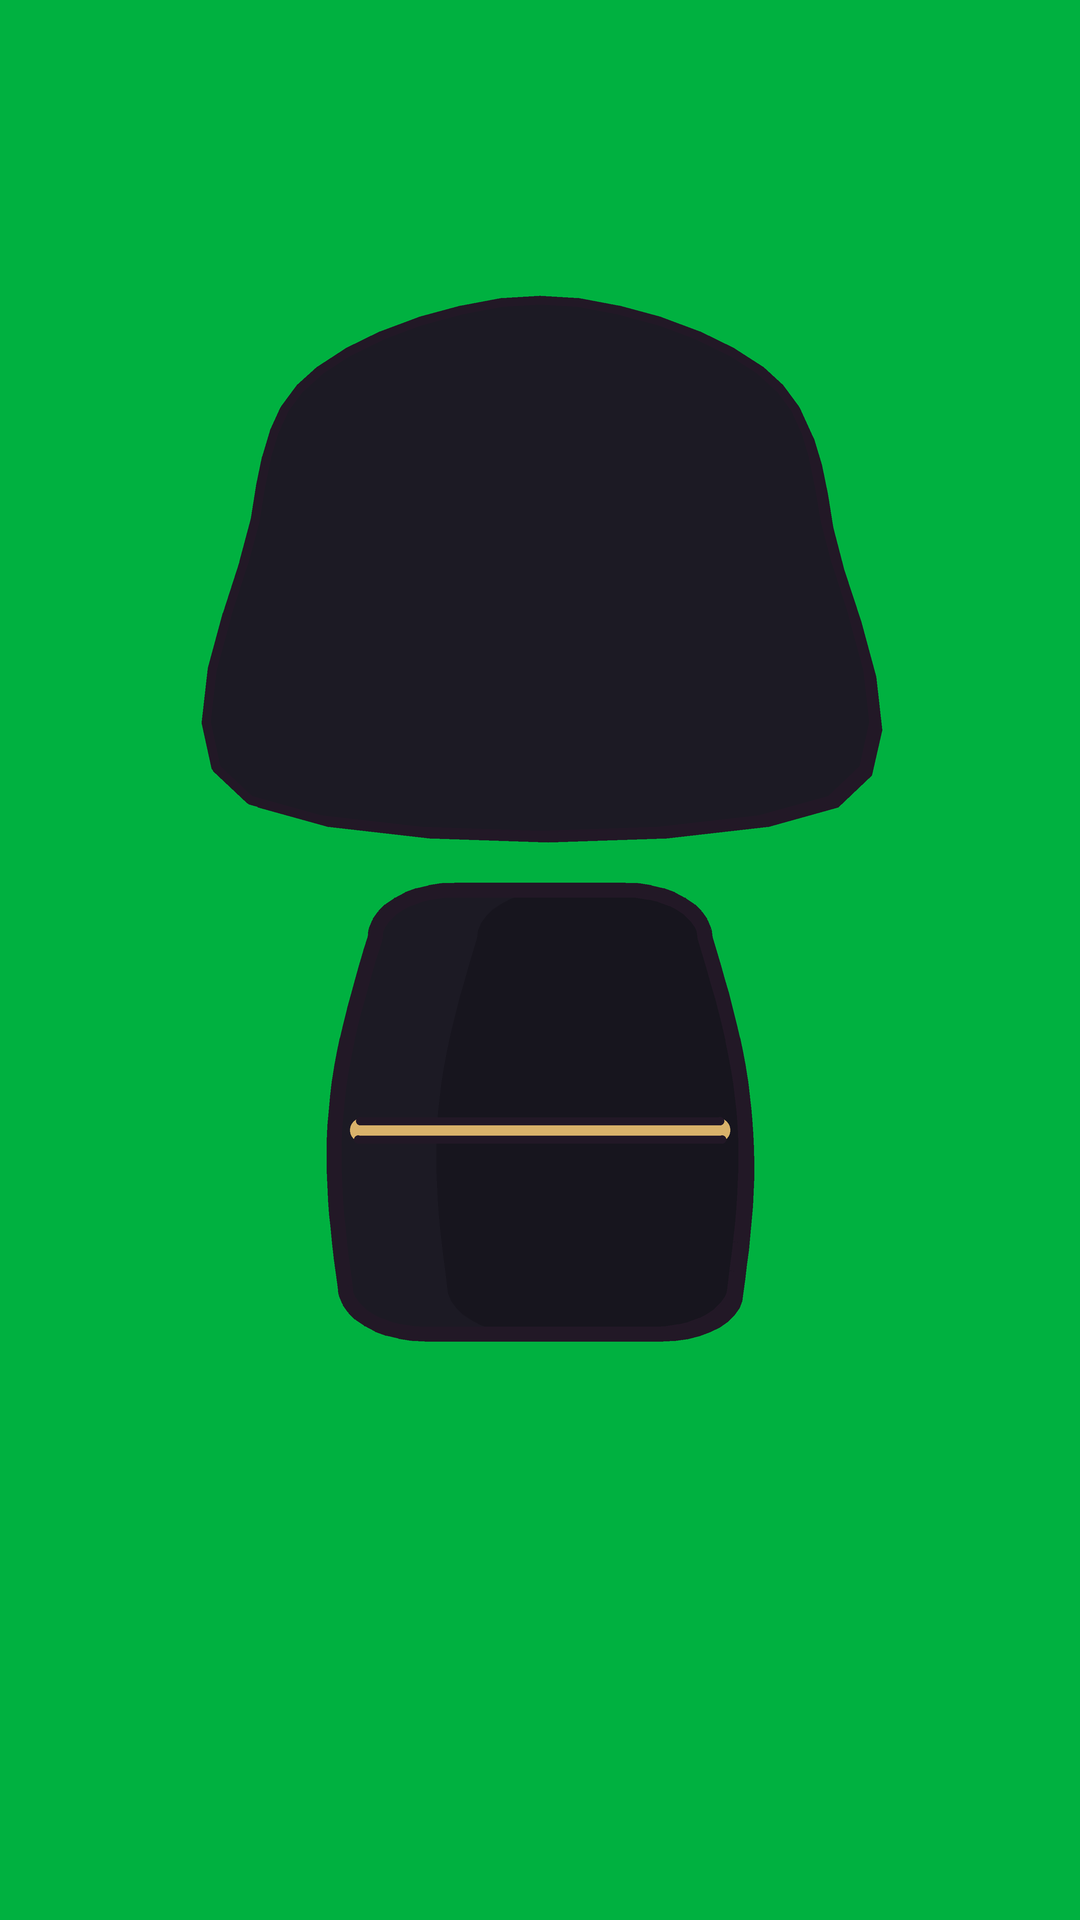
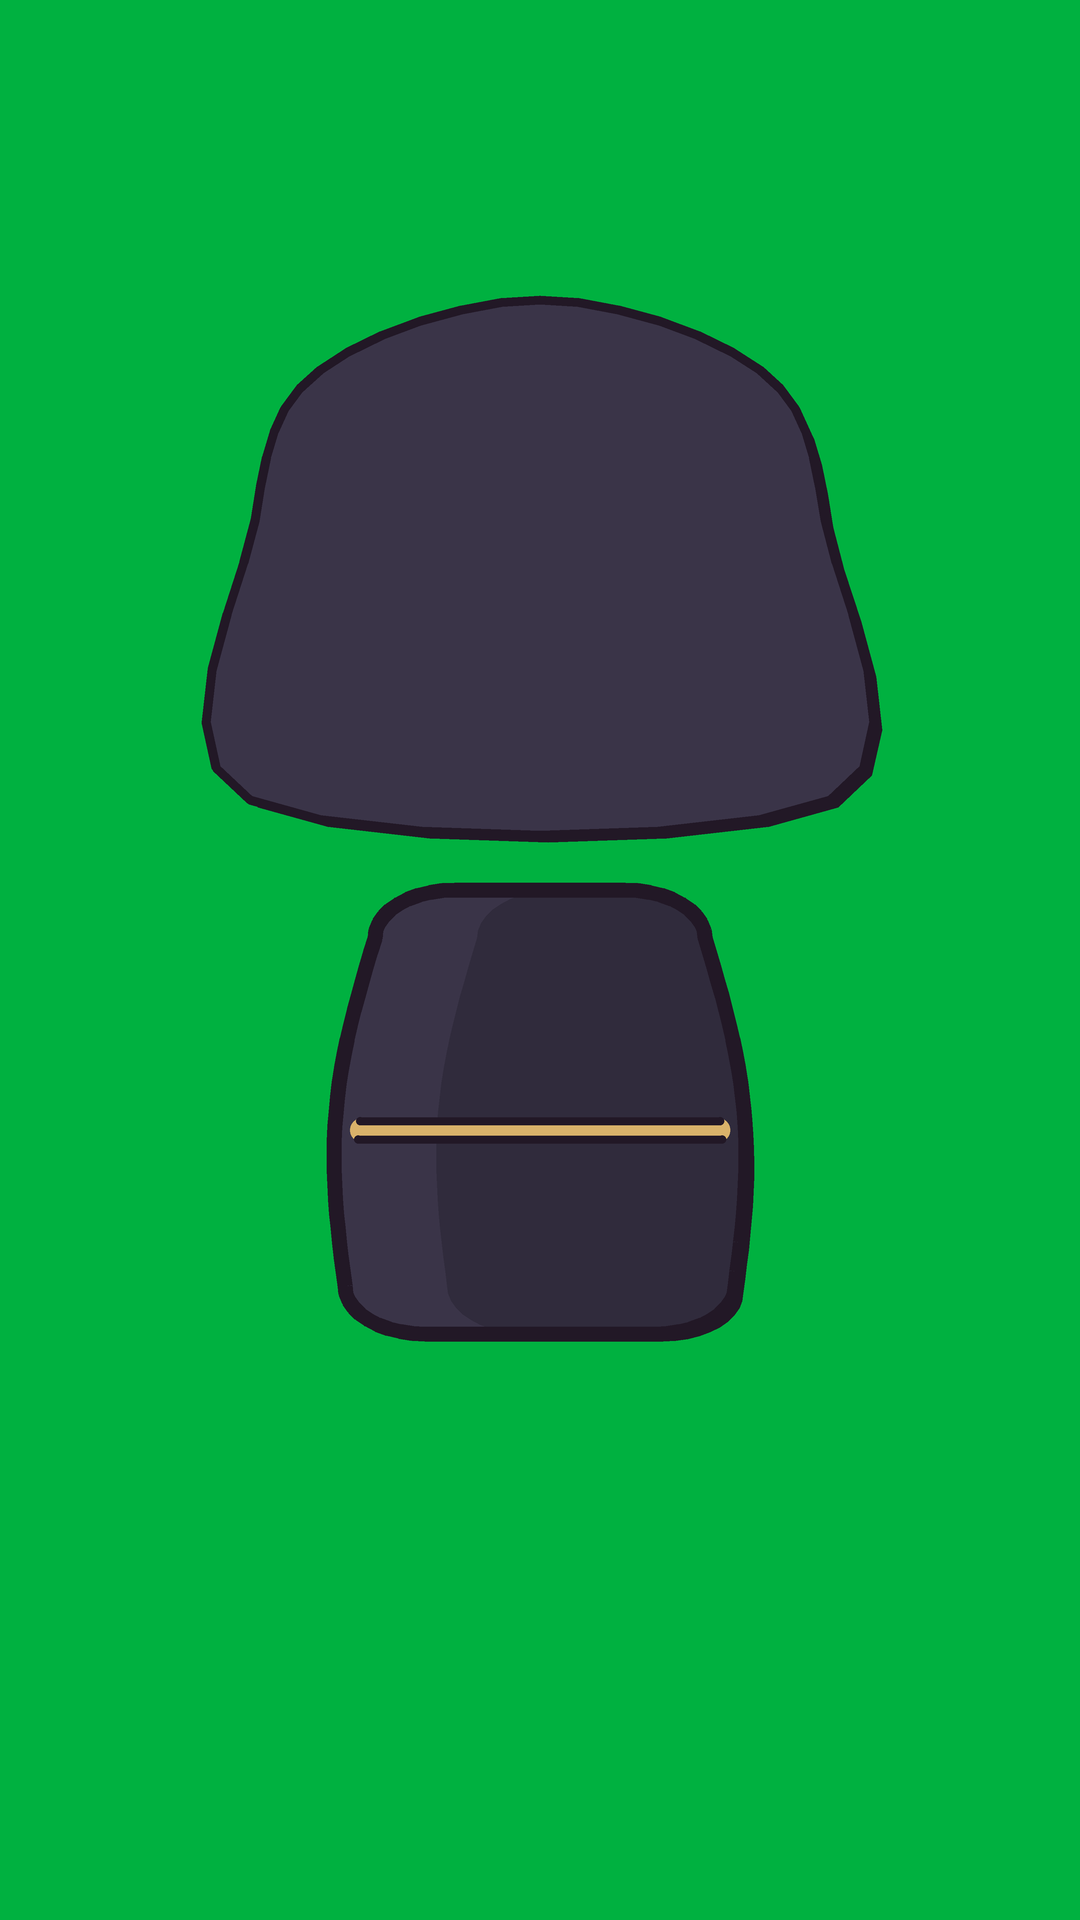
Characters read at night: lighter night costumes, sprite self-light, stronger rims, lighter hood art
Claude-Session: https://claude.ai/code/session_01GMCyhhBf96PfZGofzkVNHY

Changed region(s): [[0.1833, 0.1562, 0.825, 0.4375], [0.3056, 0.4688, 0.7028, 0.7188]]

diff --git a/projects/the-puppet-master/src/shots.js b/projects/the-puppet-master/src/shots.js
@@ -51,19 +51,19 @@ const neonPt = (i, p, col, I = 6, d = 12) => { const l = Wd.pts[i]; l.position.c
 /* character light rigs per set, motivated by the visible sources (neon magenta sign left, cyan sign right; the alley's
    warm lamp left + cool city light right; truck: cold window top light; gate: red ZERO CITY sign from above + white searchlight rim) */
 const RIGS = {
-  street: { dir: [-.7, .45, .5], cel: .7,  base: .82, key: ['#ff4a9a', .32], keySide: -1, fill: ['#2fd0ff', .26], top: ['#c8b8ff', .12], rim: ['#5fe8ff', 0.42], rimDir: [1, .35], rim2: ['#ff4a8a', 0.19], shadow: .3, rimW: .007 },
-  alley: { dir: [-.6, .7, .4], cel: .8,  base: .74, key: ['#ffb060', .4], keySide: -1, fill: ['#5a6aff', .2], top: ['#ffd8a0', .1], rim: ['#ff3a5a', 0.35], rimDir: [1, .2], rim2: ['#ffb060', 0.16], shadow: .45, rimW: .007 },
-  truck: { dir: [.1, .9, .35], cel: .7,  base: .78, key: ['#a8c4ff', .25], keySide: 1, fill: ['#ffcf8a', .18], top: ['#c8d8ff', .3], rim: ['#c8d8ff', 0.3], rimDir: [0, 1], shadow: .3, rimW: .007 },
-  gate: { dir: [0, .9, .4], cel: .7,  base: .8, key: ['#ff3040', .38], keySide: -1, fill: ['#8aa0ff', .16], top: ['#ff6070', .25], rim: ['#fff0d8', 0.4], rimDir: [1, .5], shadow: .35, rimW: .007 },
-  silhouette: { dir: [0, .2, -1], cel: 1, shadeCol: '#3a3448',  base: .28, key: ['#000000', 0], fill: ['#000000', 0], top: ['#ffd8a0', .08], rim: ['#ffc87a', .9], rimDir: [1, .4], rim2: ['#ffc87a', .7], shadow: .8, rimW: .008 },   /* a figure in front of a bright source: dark body, bright edges */
-  power: { dir: [0, -.8, .5], cel: .9, shadeCol: '#6a2a3a',  base: .62, key: ['#ff2030', .3], keySide: -1, fill: ['#000000', 0], top: ['#ffffff', .05], rim: ['#ff2a3a', 0.55], rimDir: [1, .2], rim2: ['#ff2a3a', 0.28], shadow: .6, rimW: .009 } };
+  street: { dir: [-.7, .45, .5], cel: .55,  base: 1.02, key: ['#ff4a9a', .32], keySide: -1, fill: ['#2fd0ff', .26], top: ['#c8b8ff', .12], rim: ['#5fe8ff', 0.6], rimDir: [1, .35], rim2: ['#ff4a8a', 0.3], shadow: .15, rimW: .007 },
+  alley: { dir: [-.6, .7, .4], cel: .6,  base: .98, key: ['#ffb060', .4], keySide: -1, fill: ['#5a6aff', .2], top: ['#ffd8a0', .1], rim: ['#ff3a5a', 0.55], rimDir: [1, .2], rim2: ['#ffb060', 0.3], shadow: .2, rimW: .007 },
+  truck: { dir: [.1, .9, .35], cel: .55,  base: .98, key: ['#a8c4ff', .25], keySide: 1, fill: ['#ffcf8a', .18], top: ['#c8d8ff', .3], rim: ['#c8d8ff', 0.5], rimDir: [0, 1], shadow: .15, rimW: .007 },
+  gate: { dir: [0, .9, .4], cel: .55,  base: 1.0, key: ['#ff3040', .38], keySide: -1, fill: ['#8aa0ff', .16], top: ['#ff6070', .25], rim: ['#fff0d8', 0.55], rimDir: [1, .5], shadow: .18, rimW: .007 },
+  silhouette: { dir: [0, .2, -1], cel: 1, shadeCol: '#3a3448',  base: .6, key: ['#000000', 0], fill: ['#000000', 0], top: ['#ffd8a0', .1], rim: ['#ffc87a', 1.1], rimDir: [1, .4], rim2: ['#ffc87a', .9], shadow: .6, rimW: .008 },   /* a figure in front of a bright source: dark body, bright edges */
+  power: { dir: [0, -.8, .5], cel: .7, shadeCol: '#8a3a4a',  base: .82, key: ['#ff2030', .3], keySide: -1, fill: ['#000000', 0], top: ['#ffffff', .05], rim: ['#ff2a3a', 0.75], rimDir: [1, .2], rim2: ['#ff2a3a', 0.45], shadow: .35, rimW: .009 } };
 function streetLight(lt) { setRig(RIGS.street); nightCity(); Wd.setShadowFocus(-600, 1, -10, 14); neonPt(0, STREET.localToWorld(V(-6, 3.5, -4)), '#ff2f6a', 7); neonPt(1, STREET.localToWorld(V(6, 3.5, -12)), '#2fe0ff', 7); neonPt(2, STREET.localToWorld(V(-5, 3, -20)), '#ffd23a', 6); neonPt(3, STREET.localToWorld(V(5.5, 3, -30)), '#c070ff', 6, 14); }
 function alleyLight(o = {}) { setRig(RIGS.alley); lightAt(ALLEY.localToWorld(V(-1.3, 3.0, -7)), '#ffbe70', 2.6, .55); nightCity({ hemiI: 1.9, sunI: .9, fog: '#1c1628', fogN: 10, fogF: 48, ...o }); Wd.setShadowFocus(0, 1, -606, 8); neonPt(0, ALLEY.localToWorld(V(-1.4, 3.3, -7)), '#ffc87a', 6, 9); neonPt(1, ALLEY.localToWorld(V(0, 2.5, 3)), '#ff2f6a', 5, 12); neonPt(3, ALLEY.localToWorld(V(.5, 3, -13)), '#7a8aff', 3.5, 9); }
 function truckLight() { setRig(RIGS.truck); nightCity({ hemiI: 1.9, sunI: .8, fog: '#14121c', fogN: 10, fogF: 40, stars: 0, moon: 0 }); Wd.setShadowFocus(0, 1, 600, 5); neonPt(0, TRUCK.localToWorld(V(0, 2, -.5)), '#ffcf8a', 3, 6); neonPt(1, TRUCK.localToWorld(V(0, 1.7, -2.6)), '#9ab8ff', 2.5, 5); }
 function gateLight() { setRig(RIGS.gate); lightAt(GATE.localToWorld(V(0, 15, -35)), '#ff3048', 9, .45); nightCity({ fogN: 20, fogF: 140, glowAmt: .45 }); Wd.setShadowFocus(600, 1, -18, 16); neonPt(0, GATE.localToWorld(V(0, 15, -34)), '#ff2340', 9, 30); neonPt(1, GATE.localToWorld(V(0, 2, -14)), '#fff0c8', 3, 10); }
 const mono = (k) => { POST.sat = lerp(POST.sat, .12, k); if (k > .5) setRig(RIGS.power); };   /* the power: hard red rim, the rest falls into shadow */   // the world drains to grey when Aren uses his power (red stays: it is drawn on top)
 // ===================================================================== SHOTS
-globalThis.GLOW = { a: .26, wide: .2, diffuse: .14 }; setSmoothLight(true);   /* two-scale glow: neon/sign halos reach further */
+globalThis.SPRITE_EMISSIVE = .62; globalThis.GLOW = { a: .26, wide: .2, diffuse: .14 }; setSmoothLight(true);   /* two-scale glow: neon/sign halos reach further */
 export const SHOTS = [];
 function reset(t) { SH.a = 0; SH.t = t; Object.values(CHARS).forEach(C => { C.g.visible = false; }); Wd.hideSets(); Wd.hideSea(); ZC.hideZC(); Wd.pts.forEach(l => { l.intensity = 0; });
   EYES.forEach(e => { e.material.opacity = 0; }); HF.visible = false; THREAD.visible = false; SEED.material.opacity = 0; ZC.laserAt([0, 0, 0], [0, 0, 1], 0);

diff --git a/.claude/skills/storybook-3d-selfdrawn-story/src/chars.js b/.claude/skills/storybook-3d-selfdrawn-story/src/chars.js
@@ -579,7 +579,7 @@ function rigShader(sh, mat) { Object.assign(sh.uniforms, RIG); sh.uniforms.uBall
       if (uRimAmt > 0.) gl_FragColor.rgb += uRimCol * uRimAmt * rimA(uRimDir);
       if (uRim2Amt > 0.) gl_FragColor.rgb += uRim2Col * uRim2Amt * rimA(vec2(-uRimDir.x, uRimDir.y)); }`); }
 function sprMesh(pear = false) {
-  const m = new THREE.MeshLambertMaterial({ alphaTest: .5, side: THREE.DoubleSide, emissive: 0xffffff, emissiveIntensity: .32 }); noOutline(m); m.userData.uBall = { value: new THREE.Vector4(.5, .5, .4, .4) }; m.userData.uIsHead = { value: 0 }; m.userData.uMask = { value: null }; m.onBeforeCompile = (sh) => rigShader(sh, m); m.customProgramCacheKey = () => 'rig2';
+  const m = new THREE.MeshLambertMaterial({ alphaTest: .5, side: THREE.DoubleSide, emissive: 0xffffff, emissiveIntensity: globalThis.SPRITE_EMISSIVE ?? .32 });   /* v6.6 night stories raise it so characters never sink into the dark */ noOutline(m); m.userData.uBall = { value: new THREE.Vector4(.5, .5, .4, .4) }; m.userData.uIsHead = { value: 0 }; m.userData.uMask = { value: null }; m.onBeforeCompile = (sh) => rigShader(sh, m); m.customProgramCacheKey = () => 'rig2';
   const me = new THREE.Mesh(pear ? pearGeo() : new THREE.PlaneGeometry(1, 1), m); me.castShadow = false; me.receiveShadow = false;
   me.userData.sprN = new THREE.ShaderMaterial({ uniforms: { map: { value: null } }, vertexShader: sprNVS, fragmentShader: sprNFS, side: THREE.DoubleSide });
   return me;

diff --git a/projects/the-puppet-master/tools/mk_pm.py b/projects/the-puppet-master/tools/mk_pm.py
@@ -183,16 +183,16 @@ def hat_bandana(d,view='F'):
     if view!='B': poly(d,cr([(CX+232,450),(CX+320,430),(CX+300,500),(CX+250,480)],4),r); poly(d,cr([(CX+232,470),(CX+300,540),(CX+250,560)],4),shade(r,.85))
 # ---- Hooded gunman (C08): deep hood, face mostly in shadow ----
 def back_hood(d,view='F'):
-    c=hexc('#1c1a24'); poly(d,cr([(CX-300,820),(CX-290,560),(CX-230,380),(CX,300),(CX+230,380),(CX+290,560),(CX+300,820)],6),c)
+    c=hexc('#3a3448'); poly(d,cr([(CX-300,820),(CX-290,560),(CX-230,380),(CX,300),(CX+230,380),(CX+290,560),(CX+300,820)],6),c)
 def hood(d,view='F'):
-    c=hexc('#1c1a24')
+    c=hexc('#3a3448')
     if view=='B': poly(d,cr([(CX-290,800),(CX-285,520),(CX-220,370),(CX,300),(CX+220,370),(CX+285,520),(CX+290,800)],6),c); return
     poly(d,cr([(CX-280,760),(CX-275,520),(CX-210,380),(CX,320),(CX+210,380),(CX+275,520),(CX+280,760),(CX+215,700),(CX+215,520),(CX+150,470),(CX,455),(CX-150,470),(CX-215,520),(CX-215,700)],6),c)
     hl(d,[(CX-200,420),(CX-120,370),(CX-100,385),(CX-185,440)],c)
 CH={'C01':(hair_aren,villager,(hexc('#1b1820'),)),'C02':(cap_guard,villager,(hexc('#2c3a5c'),)),
     'C03':(hair_fire,villager,(hexc('#c8bfa8'),)),'C04':(hair_buzz,villager,(hexc('#6a5a4a'),)),
     'C05':(hair_mohawk,villager,(hexc('#2a2a30'),)),'C06':(hat_beanie,villager,(hexc('#4a4038'),)),
-    'C07':(hat_bandana,villager,(hexc('#38404a'),)),'C08':(hood,villager,(hexc('#1c1a24'),),back_hood)}
+    'C07':(hat_bandana,villager,(hexc('#38404a'),)),'C08':(hood,villager,(hexc('#3a3448'),),back_hood)}
 for cid,spec in CH.items():
     hat,cos,args=spec[:3]; back=spec[3] if len(spec)>3 else None
     for v in 'FQSB':

diff --git a/.claude/skills/storybook-3d-selfdrawn-story/SKILL.md b/.claude/skills/storybook-3d-selfdrawn-story/SKILL.md
@@ -342,6 +342,14 @@ If the user wants characters made in Flow from their own prompt, use the sister 
   blue fill + red rim), truck (cold window top light), gate (red sign key + white searchlight rim), power (red rim,
   hard shadow).
 
+## Characters must always read at night (v6.6, user: 'characters are hard to see')
+- 'Black' clothes at night are painted charcoal blue-grey (#45425a-ish) with darker lapels and a bright trim, never
+  near-black: the eye reads them as black against the darker set. Hair/hood art no darker than ~#3a3448.
+- globalThis.SPRITE_EMISSIVE (default .32) = the sprites' self-light; night stories ~.6. Rig base >= .95, shadow
+  <= .2, cel ~.55, rims .5-.6 (rimW .007) so the silhouette separates from the background.
+- Value rule: the character must be lighter (or rim-lit) against a darker background in EVERY shot; check a
+  grey-scale thumbnail of each shot before rendering. Silhouette shots keep a visible rim and some interior detail.
+
 ## SFX library v3 + rooftop/gun kit (v6.5)
 - Library now ~300 sounds (projects/sfx_library, sfx.json): + 64 CC0 sounds from the SFXMint sample set on Hugging Face
   (AI-generated, CC0: rain, fire crackle, neon hum, heartbeat, wind whisper, drones, sirens, CCTV motor, glitch,
